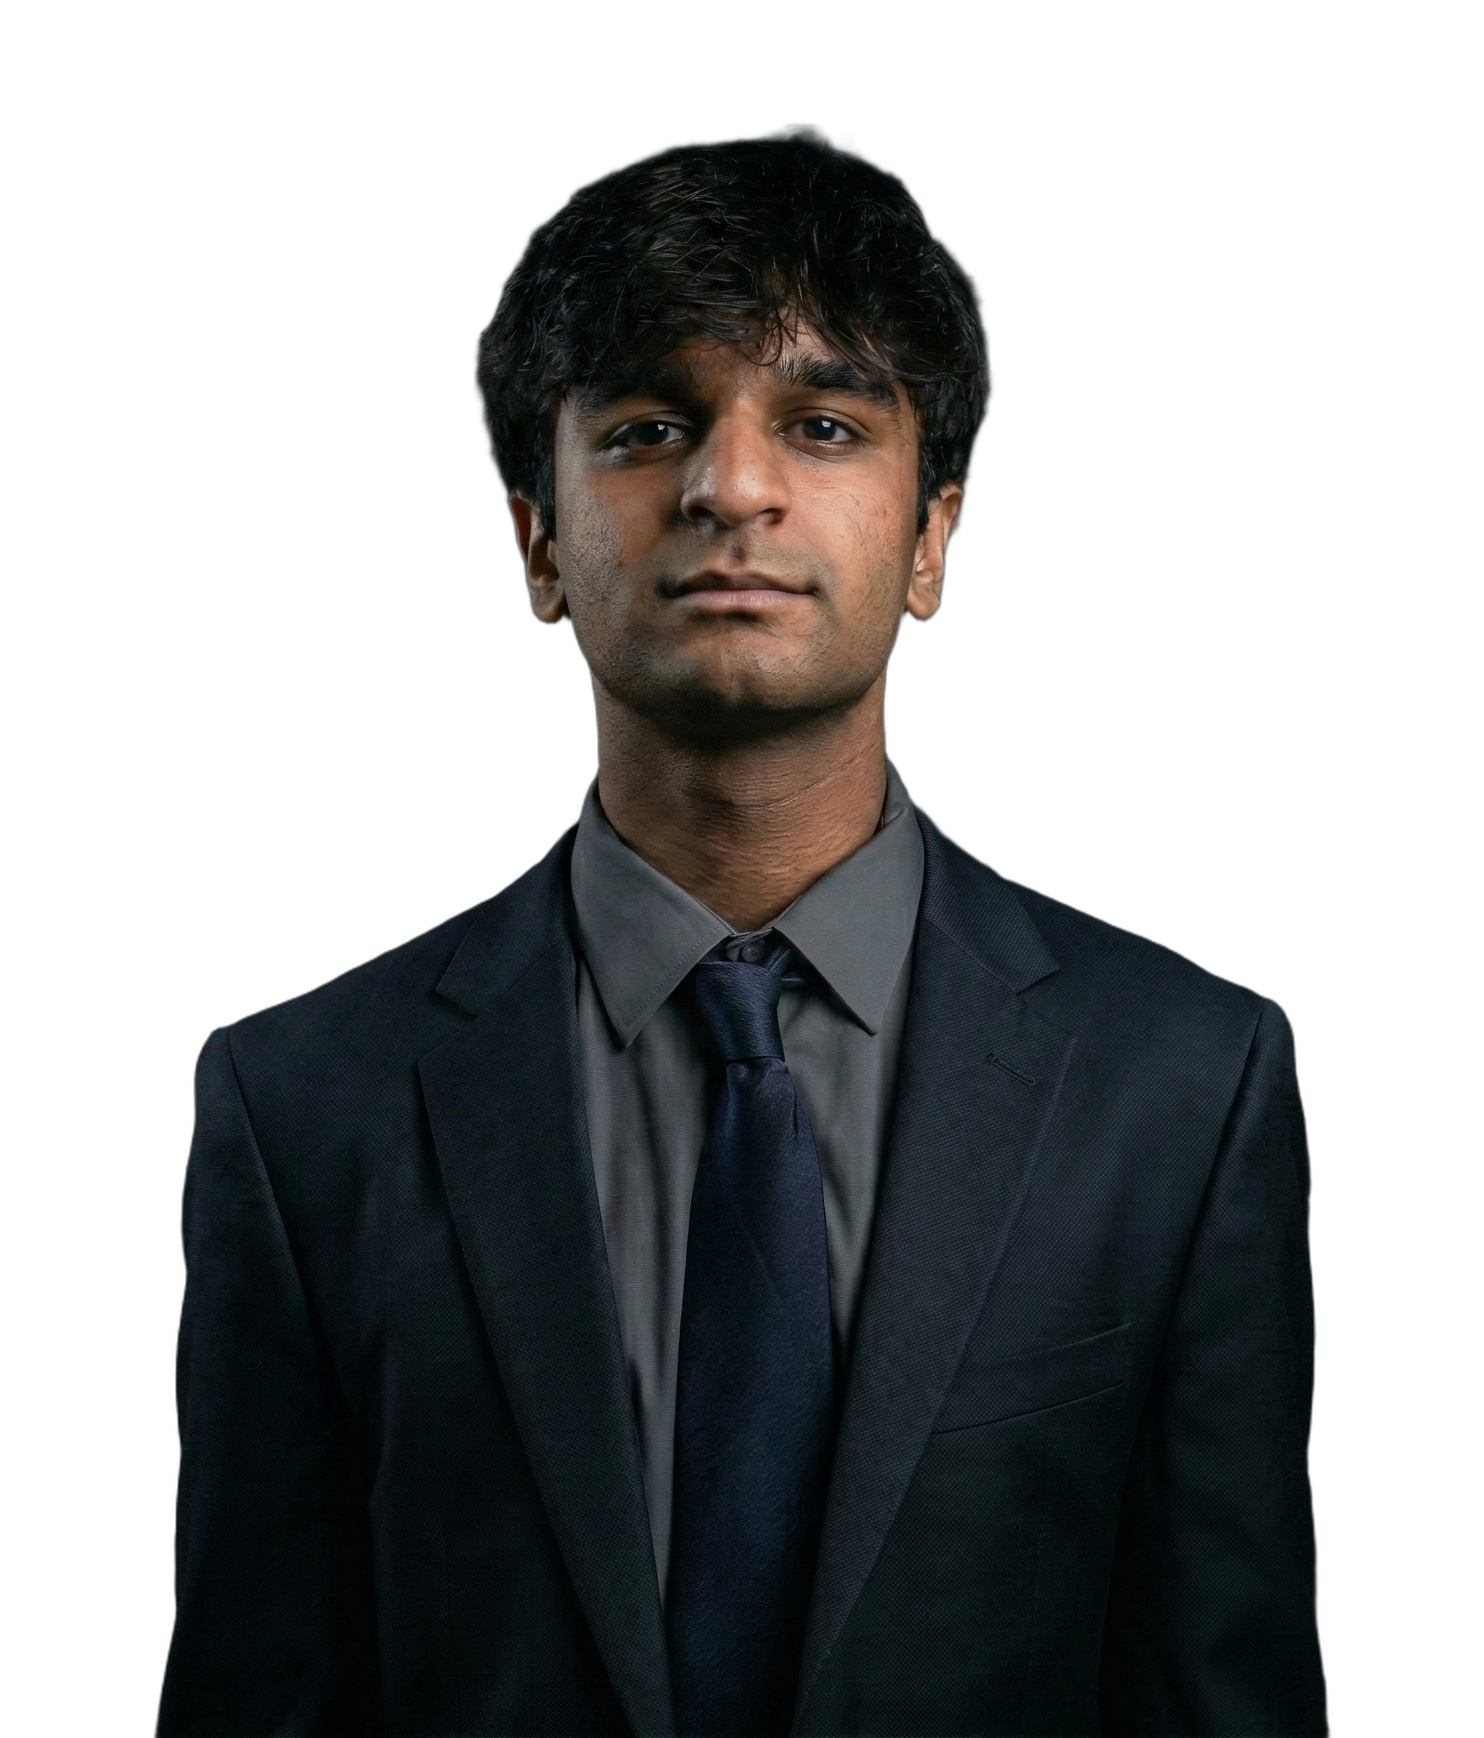
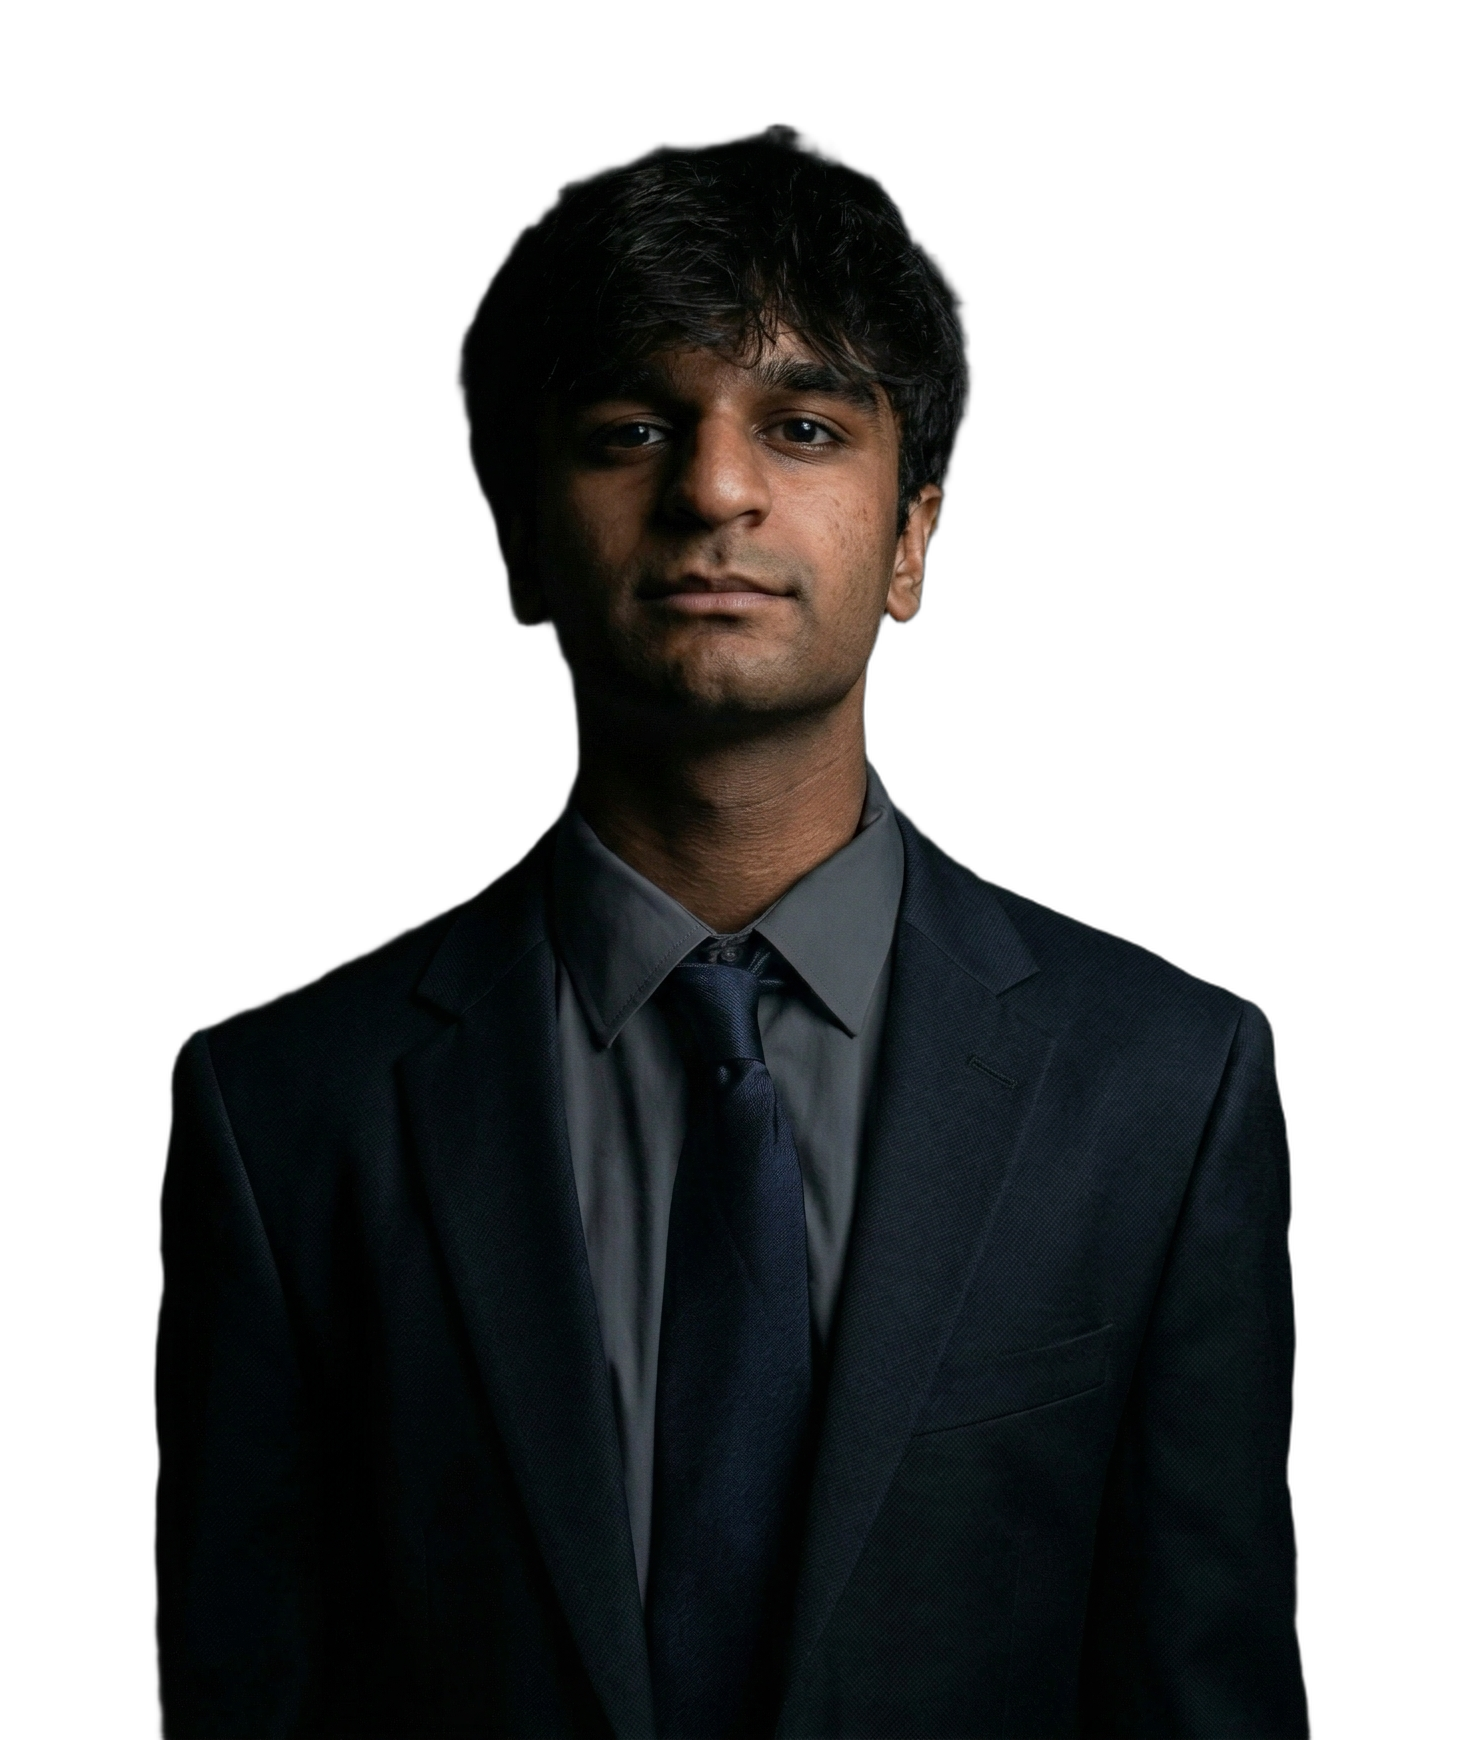
Restore previous hero portrait

diff --git a/src/App.jsx b/src/App.jsx
@@ -446,7 +446,7 @@ function App() {
             >
               <div className="relative isolate h-[460px] overflow-hidden sm:h-[560px] lg:h-[720px] xl:h-[760px]">
                 <img
-                  src="/manan-portrait-rembg-cropped.png?v=20260409-2"
+                  src="/manan-portrait-rembg-cropped.png?v=20260409-3"
                   alt="Portrait of Manan Shah"
                   className="absolute inset-0 right-[-2%] bottom-[-1px] z-10 h-full w-full object-contain object-[center_bottom] brightness-[1.03] contrast-[1.14] saturate-[0.9] drop-shadow-[0_28px_80px_rgba(0,0,0,0.55)] lg:right-[-4%] lg:scale-[1.02]"
                 />
